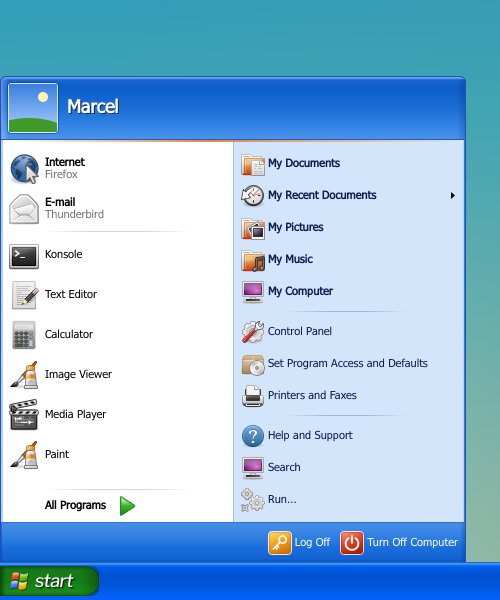
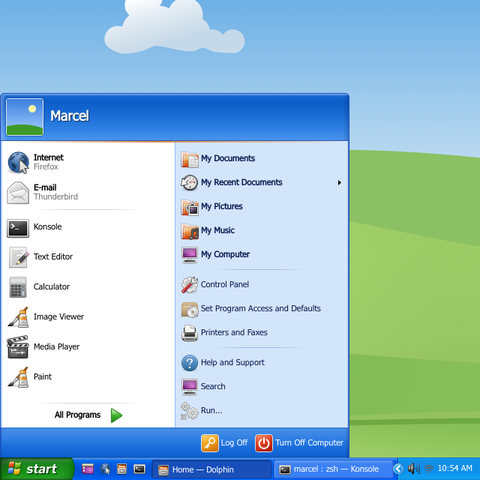
Review fixes: Quick Launch drops and overflow menu, tray, clock, taskbar settings, README
- Quick Launch: drops work (preventStealing, the panel's drop area took
  them); only application launchers are accepted; the overflow menu
  opens above the », left-aligned; » looks like a button only under
  the pointer.
- Tray: refit icons that turn hidden while expanded; Plasma's own
  activation collapses first; the tray search backs off without a tray.
- Clock settings keep saved custom formats (editable combo boxes reset
  to their first entry on completion).
- Taskbar: settings page for its existing options.
- Layout: tray settings also reach older Plasma 6 trays.
- README: fonts and Exposé licences, uninstall resets the icon theme and
  runs from the repository, right-column configuration scope, re-run
  get-microsoft-files.sh after re-applying the theme.
- Global Theme previews and README screenshots regenerated.
- update-vendored.sh: tool pre-check, strict wallpaper match.

Claude-Session: https://claude.ai/code/session_01PfMQm1A3gEqM17TJU2qVLD

diff --git a/home/.local/share/plasma/plasmoids/com.github.marpogaus.winxpquicklaunch/contents/ui/main.qml b/home/.local/share/plasma/plasmoids/com.github.marpogaus.winxpquicklaunch/contents/ui/main.qml
@@ -109,18 +109,25 @@ PlasmoidItem {
         if (app) {
             return "applications:" + app[1];
         }
-        return /^(file|applications|preferred):/.test(text) ? text : "";
+        // Other local files (documents, folders) would make dead launchers
+        return /^(applications|preferred):/.test(text) || /^file:.*\.desktop$/.test(text) ? text : "";
     }
 
+    // Returns whether anything was added
     function addLaunchers(urls, position) {
+        const added = urls.map(launcherUrl).filter(url => url.length > 0);
+        if (added.length === 0) {
+            return false;
+        }
         editLaunchers(list => {
             let at = Math.max(0, Math.min(position, list.length));
-            urls.map(launcherUrl).forEach(url => {
-                if (url.length > 0 && !list.includes(url)) {
+            added.forEach(url => {
+                if (!list.includes(url)) {
                     list.splice(at++, 0, url);
                 }
             });
         });
+        return true;
     }
 
     function removeLauncher(position) {
@@ -165,12 +172,14 @@ PlasmoidItem {
         // Applications dragged from menus, Dolphin or the desktop
         DragAndDrop.DropArea {
             anchors.fill: parent
-            onDragEnter: event => root.dropIndex = root.launcherIndexAt(event.x, event.y)
-            onDragMove: event => root.dropIndex = root.launcherIndexAt(event.x, event.y)
+            // Otherwise the panel's own drop area (for adding widgets)
+            // takes the drop
+            preventStealing: true
+            onDragEnter: event => root.dropIndex = event.mimeData.hasUrls ? root.launcherIndexAt(event.x, event.y) : -1
+            onDragMove: event => root.dropIndex = event.mimeData.hasUrls ? root.launcherIndexAt(event.x, event.y) : -1
             onDragLeave: root.dropIndex = -1
             onDrop: event => {
-                if (event.mimeData.urls.length > 0) {
-                    root.addLaunchers(event.mimeData.urls, root.dropIndex);
+                if (root.addLaunchers(event.mimeData.urls, root.dropIndex)) {
                     event.accept(Qt.CopyAction);
                 }
                 root.dropIndex = -1;
@@ -224,8 +233,8 @@ PlasmoidItem {
                 }
             }
 
-            // XP's » button for the icons that do not fit: a small lighter
-            // blue button in the top half of the taskbar
+            // XP's » for the icons that do not fit, in the top half of the
+            // taskbar; it only looks like a button under the pointer
             Item {
                 visible: root.overflow
                 width: 13
@@ -239,8 +248,8 @@ PlasmoidItem {
                     width: parent.width
                     height: 12
                     radius: 2
-                    color: overflowMouse.pressed ? "#1d5fd0" : overflowMouse.containsMouse ? "#5a9cf8" : "#3c87ee"
-                    border.color: Qt.rgba(1, 1, 1, 0.35)
+                    color: overflowMouse.pressed ? "#1d5fd0" : overflowMouse.containsMouse ? "#5a9cf8" : "transparent"
+                    border.color: overflowMouse.containsMouse ? Qt.rgba(1, 1, 1, 0.35) : "transparent"
 
                     Text {
                         anchors.centerIn: parent
@@ -290,6 +299,8 @@ PlasmoidItem {
         PlasmaExtras.Menu {
             id: overflowMenu
             visualParent: overflowButton
+            // Above the », left edges aligned
+            placement: PlasmaExtras.Menu.TopPosedLeftAlignedPopup
         }
 
         Instantiator {

diff --git a/home/.local/share/plasma/plasmoids/com.github.marpogaus.winxptray/contents/ui/main.qml b/home/.local/share/plasma/plasmoids/com.github.marpogaus.winxptray/contents/ui/main.qml
@@ -113,8 +113,9 @@ PlasmoidItem {
 
         // Hidden icons keep their status while shown in the row, and Plasma
         // lays a hidden item out as in its popup list (32 px icon, margins,
-        // a text label). Give them the row's look instead; collapsing
-        // destroys these items, so nothing has to be undone.
+        // a text label). Give them the row's look instead. Collapsing
+        // destroys these items; one that turned active meanwhile keeps the
+        // overrides, which equal Plasma's own row layout.
         function fitShownItems() {
             if (!tray || !trayExpanded) {
                 return;
@@ -149,6 +150,23 @@ PlasmoidItem {
             target: anchorItem.tray ? anchorItem.tray.visibleLayout : null
             function onCountChanged() {
                 Qt.callLater(anchorItem.fitShownItems);
+            }
+        }
+        // An icon already in the row can turn hidden while expanded
+        Connections {
+            target: anchorItem.tray ? anchorItem.tray.visibleLayout.model : null
+            function onDataChanged() {
+                Qt.callLater(anchorItem.fitShownItems);
+            }
+        }
+        // Plasma's own activation of the tray (shortcut, keyboard) opens
+        // its popup of hidden icons; collapse first so it is not empty
+        Connections {
+            target: anchorItem.tray ? anchorItem.tray.systemTrayState : null
+            function onExpandedChanged() {
+                if (anchorItem.tray.systemTrayState.expanded) {
+                    anchorItem.trayExpanded = false;
+                }
             }
         }
 
@@ -189,12 +207,15 @@ PlasmoidItem {
         }
 
         Timer {
-            interval: 1000
+            property int attempts: 0
+            // Every second at first, then rarely when the panel has no tray
+            interval: attempts < 30 ? 1000 : 10000
             repeat: true
             // Vertical panels keep Plasma's own arrow
             running: anchorItem.horizontal && !anchorItem.tray && !!anchorItem.Window.window
             triggeredOnStart: true
             onTriggered: {
+                ++attempts;
                 const tray = anchorItem.findItem(anchorItem.Window.contentItem,
                     i => "systemTrayState" in i && "hiddenLayout" in i && "plasmoid" in i);
                 const expander = tray && anchorItem.findItem(tray,
@@ -205,6 +226,7 @@ PlasmoidItem {
                     anchorItem.trayExpanded = false;
                     anchorItem.expander = expander;
                     anchorItem.tray = tray;
+                    attempts = 0;
                 }
             }
         }

diff --git a/home/.local/share/plasma/plasmoids/com.github.marpogaus.winxpclock/contents/ui/ConfigGeneral.qml b/home/.local/share/plasma/plasmoids/com.github.marpogaus.winxpclock/contents/ui/ConfigGeneral.qml
@@ -14,10 +14,21 @@ import org.kde.kcmutils as KCM
 KCM.SimpleKCM {
     property alias cfg_showClock: showClock.checked
     property alias cfg_useRegionFormats: regionFormats.checked
-    property alias cfg_timeFormat: timeFormat.editText
-    property alias cfg_amSymbol: amSymbol.editText
-    property alias cfg_pmSymbol: pmSymbol.editText
-    property alias cfg_longDateFormat: longDateFormat.editText
+    // Editable combo boxes set their text to the first entry when they are
+    // completed, so the saved values are copied in afterwards
+    property string cfg_timeFormat
+    property string cfg_amSymbol
+    property string cfg_pmSymbol
+    property string cfg_longDateFormat
+    property bool loaded: false
+
+    Component.onCompleted: {
+        timeFormat.editText = cfg_timeFormat;
+        amSymbol.editText = cfg_amSymbol;
+        pmSymbol.editText = cfg_pmSymbol;
+        longDateFormat.editText = cfg_longDateFormat;
+        loaded = true;
+    }
     property alias cfg_fontFamily: fontFamily.text
     property alias cfg_clickCommand: clickCommand.text
 
@@ -45,6 +56,7 @@ KCM.SimpleKCM {
 
         QQC2.ComboBox {
             id: timeFormat
+            onEditTextChanged: if (loaded) cfg_timeFormat = editText
             Kirigami.FormData.label: i18n("Time format:")
             enabled: customFormats.checked
             editable: true
@@ -52,6 +64,7 @@ KCM.SimpleKCM {
         }
         QQC2.ComboBox {
             id: amSymbol
+            onEditTextChanged: if (loaded) cfg_amSymbol = editText
             Kirigami.FormData.label: i18n("AM symbol:")
             enabled: customFormats.checked
             editable: true
@@ -59,6 +72,7 @@ KCM.SimpleKCM {
         }
         QQC2.ComboBox {
             id: pmSymbol
+            onEditTextChanged: if (loaded) cfg_pmSymbol = editText
             Kirigami.FormData.label: i18n("PM symbol:")
             enabled: customFormats.checked
             editable: true
@@ -66,6 +80,7 @@ KCM.SimpleKCM {
         }
         QQC2.ComboBox {
             id: longDateFormat
+            onEditTextChanged: if (loaded) cfg_longDateFormat = editText
             Kirigami.FormData.label: i18n("Long date (tooltip):")
             enabled: customFormats.checked
             editable: true

diff --git a/home/.local/share/plasma/plasmoids/com.github.marpogaus.winxptaskbar/contents/ui/ConfigGeneral.qml b/home/.local/share/plasma/plasmoids/com.github.marpogaus.winxptaskbar/contents/ui/ConfigGeneral.qml
@@ -1,0 +1,37 @@
+/*
+    SPDX-License-Identifier: GPL-2.0-or-later
+*/
+import QtQuick
+import QtQuick.Controls as QQC2
+import org.kde.kirigami as Kirigami
+import org.kde.kcmutils as KCM
+
+KCM.SimpleKCM {
+    property alias cfg_maximumButtonWidth: maximumButtonWidth.value
+    property alias cfg_showOnlyCurrentScreen: showOnlyCurrentScreen.checked
+    property alias cfg_showOnlyCurrentDesktop: showOnlyCurrentDesktop.checked
+    property alias cfg_fontFamily: fontFamily.text
+
+    Kirigami.FormLayout {
+        QQC2.SpinBox {
+            id: maximumButtonWidth
+            Kirigami.FormData.label: i18n("Widest button:")
+            from: 40
+            to: 400
+            textFromValue: value => i18n("%1 px", value)
+        }
+        QQC2.CheckBox {
+            id: showOnlyCurrentScreen
+            Kirigami.FormData.label: i18n("Show:")
+            text: i18n("Only windows on this screen")
+        }
+        QQC2.CheckBox {
+            id: showOnlyCurrentDesktop
+            text: i18n("Only windows on the current desktop")
+        }
+        QQC2.TextField {
+            id: fontFamily
+            Kirigami.FormData.label: i18n("Font:")
+        }
+    }
+}

diff --git a/home/.local/share/plasma/look-and-feel/com.github.marpogaus.winxp/contents/layouts/org.kde.plasma.desktop-layout.js b/home/.local/share/plasma/look-and-feel/com.github.marpogaus.winxp/contents/layouts/org.kde.plasma.desktop-layout.js
@@ -22,13 +22,17 @@ panel.addWidget("com.github.marpogaus.winxpquicklaunch");
 panel.addWidget("com.github.marpogaus.winxptaskbar");
 panel.addWidget("com.github.marpogaus.winxptray");
 var tray = panel.addWidget("org.kde.plasma.systemtray");
-// XP keeps the expand arrow at the left end of the notification area
-tray.currentConfigGroup = ["General"];
-tray.writeConfig("reverseIconOrder", true);
-tray.writeConfig("iconSpacing", 1);
+// XP keeps the expand arrow at the left end of the notification area.
+// Plasma 6 releases before the tray became a single containment keep its
+// settings in a separate containment.
+var trayContainmentId = tray.readConfig("SystrayContainmentId");
+var trayConfig = (trayContainmentId && desktopById(trayContainmentId)) || tray;
+trayConfig.currentConfigGroup = ["General"];
+trayConfig.writeConfig("reverseIconOrder", true);
+trayConfig.writeConfig("iconSpacing", 1);
 // XP hides inactive icons behind the chevron; keep volume, network,
 // battery and app icons in view
-tray.writeConfig("hiddenItems", [
+trayConfig.writeConfig("hiddenItems", [
     "org.kde.plasma.clipboard",
     "org.kde.plasma.brightness",
     "org.kde.plasma.bluetooth",

diff --git a/home/.local/share/plasma/plasmoids/com.github.marpogaus.winxptaskbar/contents/config/config.qml b/home/.local/share/plasma/plasmoids/com.github.marpogaus.winxptaskbar/contents/config/config.qml
@@ -1,0 +1,10 @@
+import QtQuick
+import org.kde.plasma.configuration
+
+ConfigModel {
+    ConfigCategory {
+        name: i18n("General")
+        icon: "preferences-system-windows"
+        source: "ConfigGeneral.qml"
+    }
+}

diff --git a/README.md b/README.md
@@ -33,7 +33,9 @@ and wallpaper are XP's.
    style and wallpaper. [Kvantum](https://github.com/tsujan/Kvantum) is
    needed for the application style. Exposé's *ExposeAir* icons and login
    screen are not bundled; get them with *Get New…* in the Icons and Login
-   Screen settings (or use the XP icons below).
+   Screen settings (or use the XP icons below). Re-applying the Global Theme
+   sets the icons back to ExposeAir; run `./get-microsoft-files.sh` again
+   afterwards if you use the XP icons.
 
 Copying overwrites Dolphin's toolbar (`~/.local/share/kxmlgui5/dolphin/dolphinui.rc`),
 Dolphin's default view and the selected Kvantum theme (`~/.config/Kvantum/kvantum.kvconfig`).
@@ -59,7 +61,7 @@ to `~/.local/share/icons` and choose it under System Settings → Icons.
 ### Uninstall
 
 Apply Breeze (or any other) Global Theme with its desktop layout, then
-remove the copied files:
+remove the copied files (from this repository's directory):
 
 ```sh
 (cd home && git ls-files -z) | (cd ~ && xargs -0 rm -f)
@@ -76,6 +78,7 @@ for key in font menuFont toolBarFont smallestReadableFont; do
 done
 kwriteconfig6 --file kdeglobals --group WM --key activeFont --delete
 kwriteconfig6 --file kdeglobals --group Sounds --key Theme --delete
+kwriteconfig6 --file kdeglobals --group Icons --key Theme --delete
 ```
 
 ## What is in `home/`
@@ -83,10 +86,11 @@ kwriteconfig6 --file kdeglobals --group Sounds --key Theme --delete
 | Part | Path | Source, license |
 | --- | --- | --- |
 | Start menu, Quick Launch, taskbar, notification area, clock widgets | `.local/share/plasma/plasmoids/com.github.marpogaus.*` | this repository, GPL-2.0+ |
+| Fallback fonts for the start menu | `.local/share/plasma/plasmoids/com.github.marpogaus.winxpstartmenu/contents/fonts` | Wine's Tahoma (LGPL-2.1+), Libre Franklin (OFL-1.1) |
 | Grey fade behind Turn Off / Log Off (KWin effect) | `.local/share/kwin/effects/winxp_sessionfade` | this repository, GPL-2.0+ |
 | XP Alt+Tab (KWin window switcher) | `.local/share/kwin/tabbox/winxp_alttab` | this repository, GPL-2.0+ |
 | Windows XP Global Theme (taskbar layout, Alt+Tab, cursors, Exposé look) | `.local/share/plasma/look-and-feel/com.github.marpogaus.winxp` | this repository, GPL-2.0+ |
-| Exposé (window borders, Plasma theme, colours, Kvantum, wallpapers) | `.local/share/plasma/desktoptheme/expose`, `.local/share/aurorae/themes/expose`, `.local/share/color-schemes/Expose.colors`, `.config/Kvantum`, `.local/share/wallpapers/{expose,Bløff}` | [Exposé](https://www.opencode.net/phob1an/expose) by phob1an, unmodified, GPL (see the bundled `LICENSE` files); wallpapers CC BY-SA 4.0 |
+| Exposé (window borders, Plasma theme, colours, Kvantum, wallpapers) | `.local/share/plasma/desktoptheme/expose`, `.local/share/aurorae/themes/expose`, `.local/share/color-schemes/Expose.colors`, `.config/Kvantum`, `.local/share/wallpapers/{expose,Bløff}` | [Exposé](https://www.opencode.net/phob1an/expose) by phob1an, unmodified, GPL-3.0 (see the bundled `LICENSE` files); wallpapers CC BY-SA 4.0 |
 | Cursors | `.local/share/icons/ModernXP` | built from [modernXP](https://github.com/na0miluv/modernXP-cursor-theme), GPL-3.0 |
 | Dolphin as XP Explorer | `.local/share/kxmlgui5/dolphin`, `.local/share/dolphin` | toolbar derived from [Dolphin](https://invent.kde.org/system/dolphin), GPL-2.0+ |
 
@@ -98,7 +102,8 @@ the Dolphin toolbar from upstream.
 The start button, task buttons and notification area are laid out on the
 visible taskbar, not only on the space Plasma gives each widget, so they
 line up like XP's whatever the panel theme's padding. Make the taskbar
-taller (about 28 px per row) to get several rows of task buttons.
+taller (about 28 px per row) to get several rows of task buttons. Right-click a free spot →
+Configure for the widest button and which windows are shown.
 
 The notification area uses Plasma's own System Tray (so volume, network,
 battery and app icons all work), on XP's light blue block. Plasma gives
@@ -169,7 +174,9 @@ Right-click the start button → *Configure Windows XP Start Menu…*
 - button label, icon (empty = XP's flag if downloaded, else the built-in one) and fonts
 - number of frequently used programs; which optional entries of the right
   column are shown, like XP's *Customize Start Menu* dialog
-- the location or command behind every entry of the right column
+- the location or command behind My Computer, Network, Control Panel, Set
+  Program Access and Defaults, Printers and Faxes, Help and Support, Search
+  and Run (My Documents, Pictures and Music follow the XDG folders)
 
 ## Development
 
